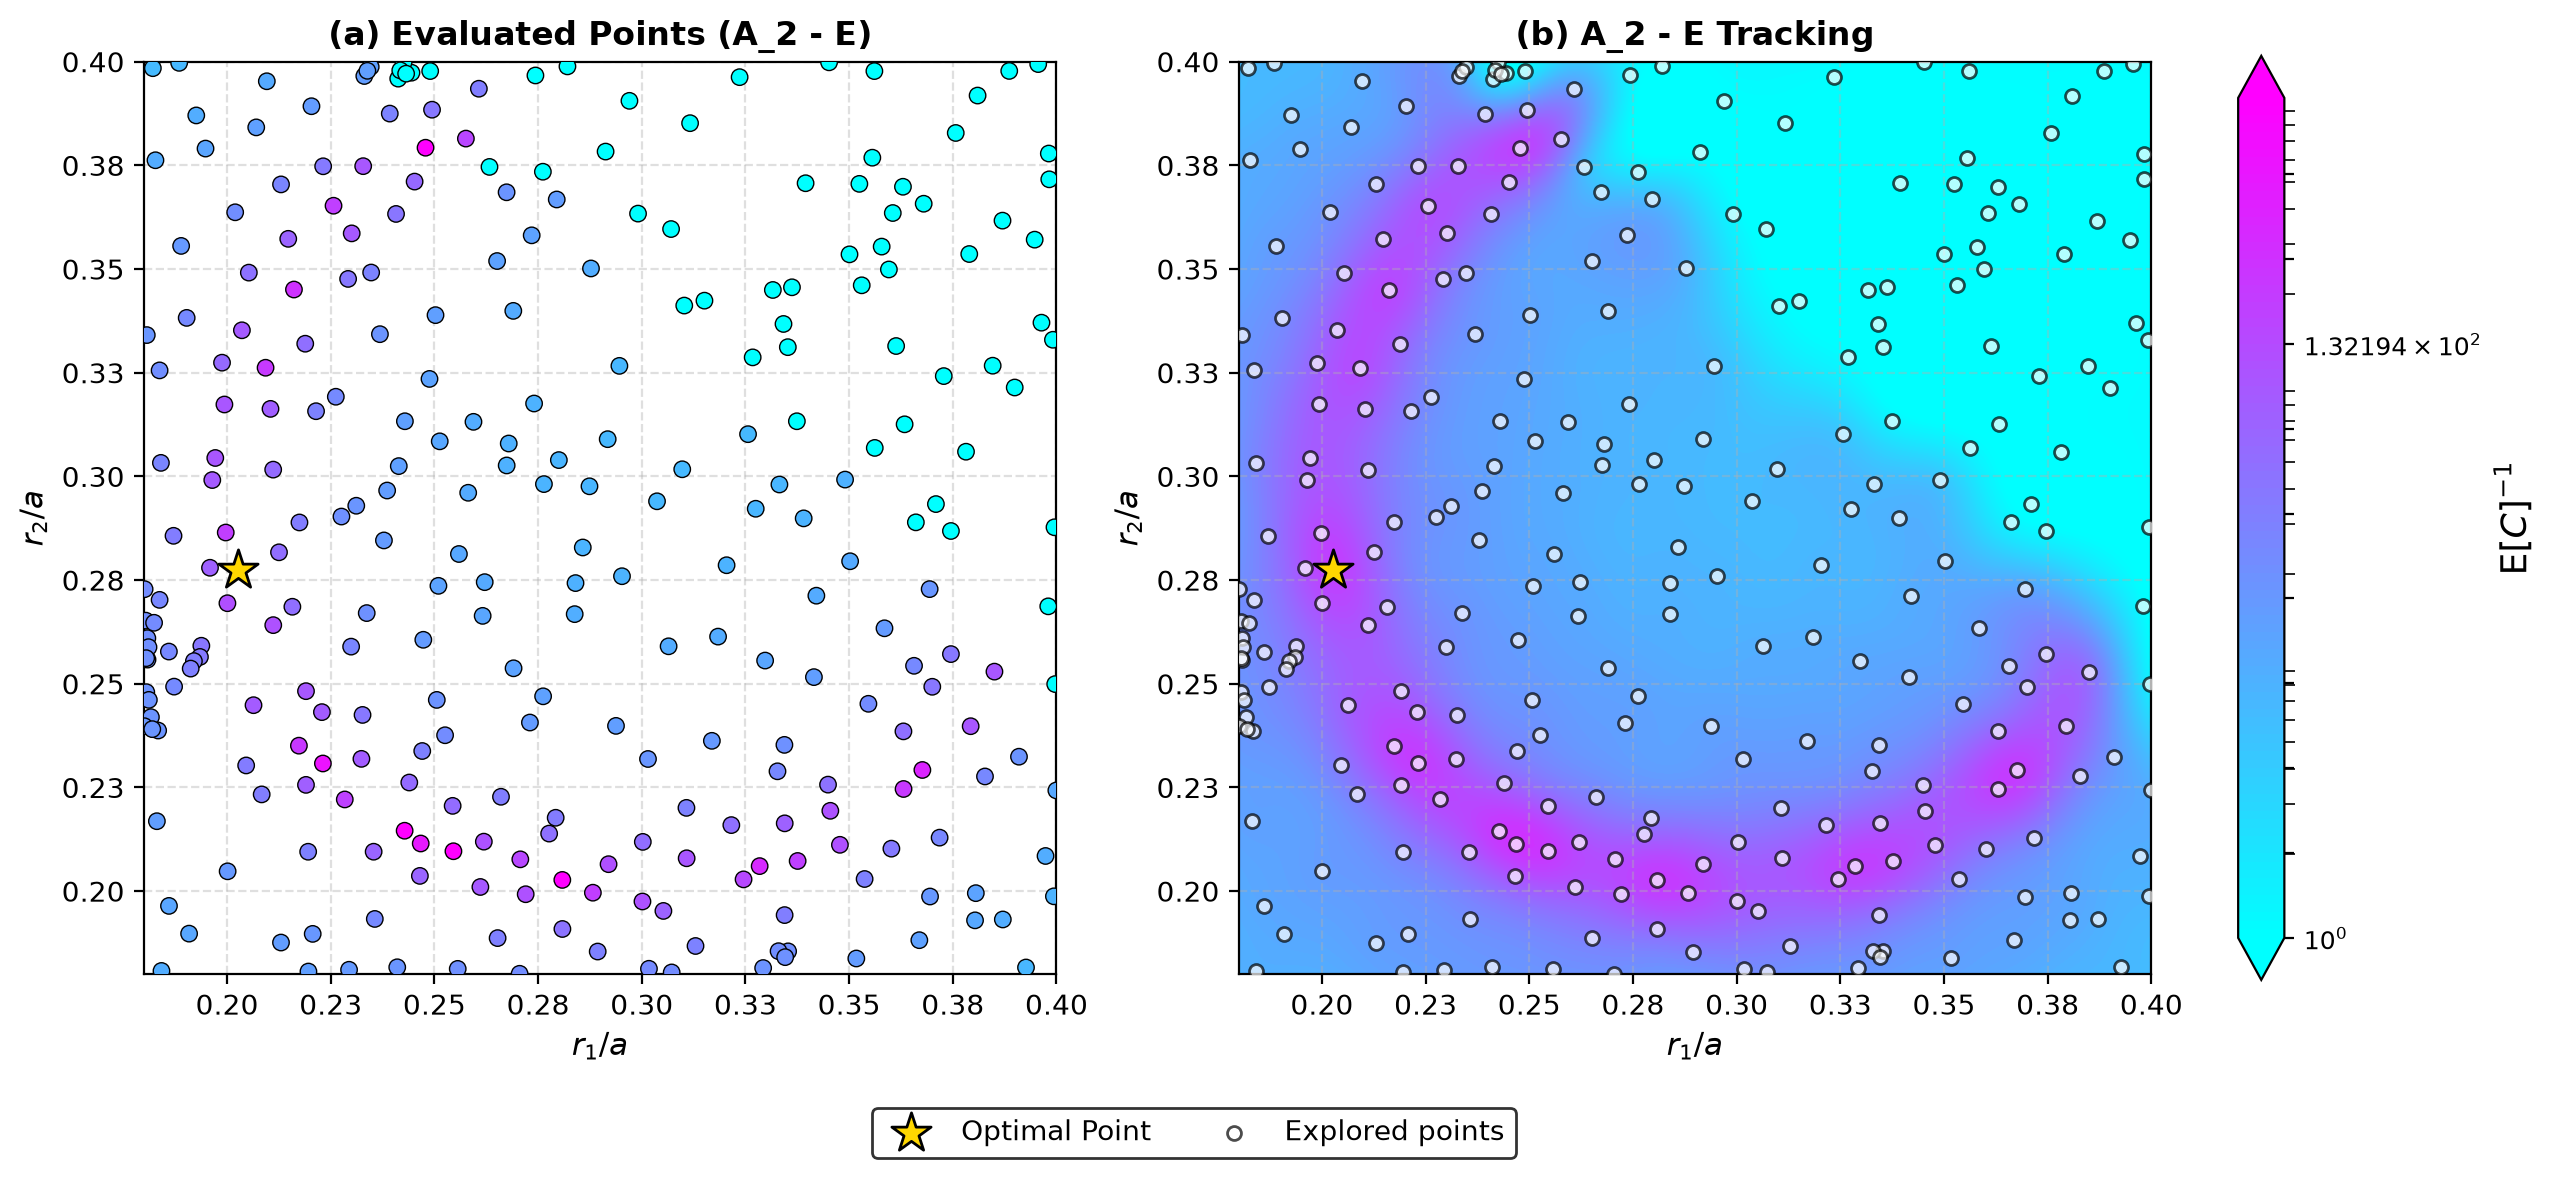
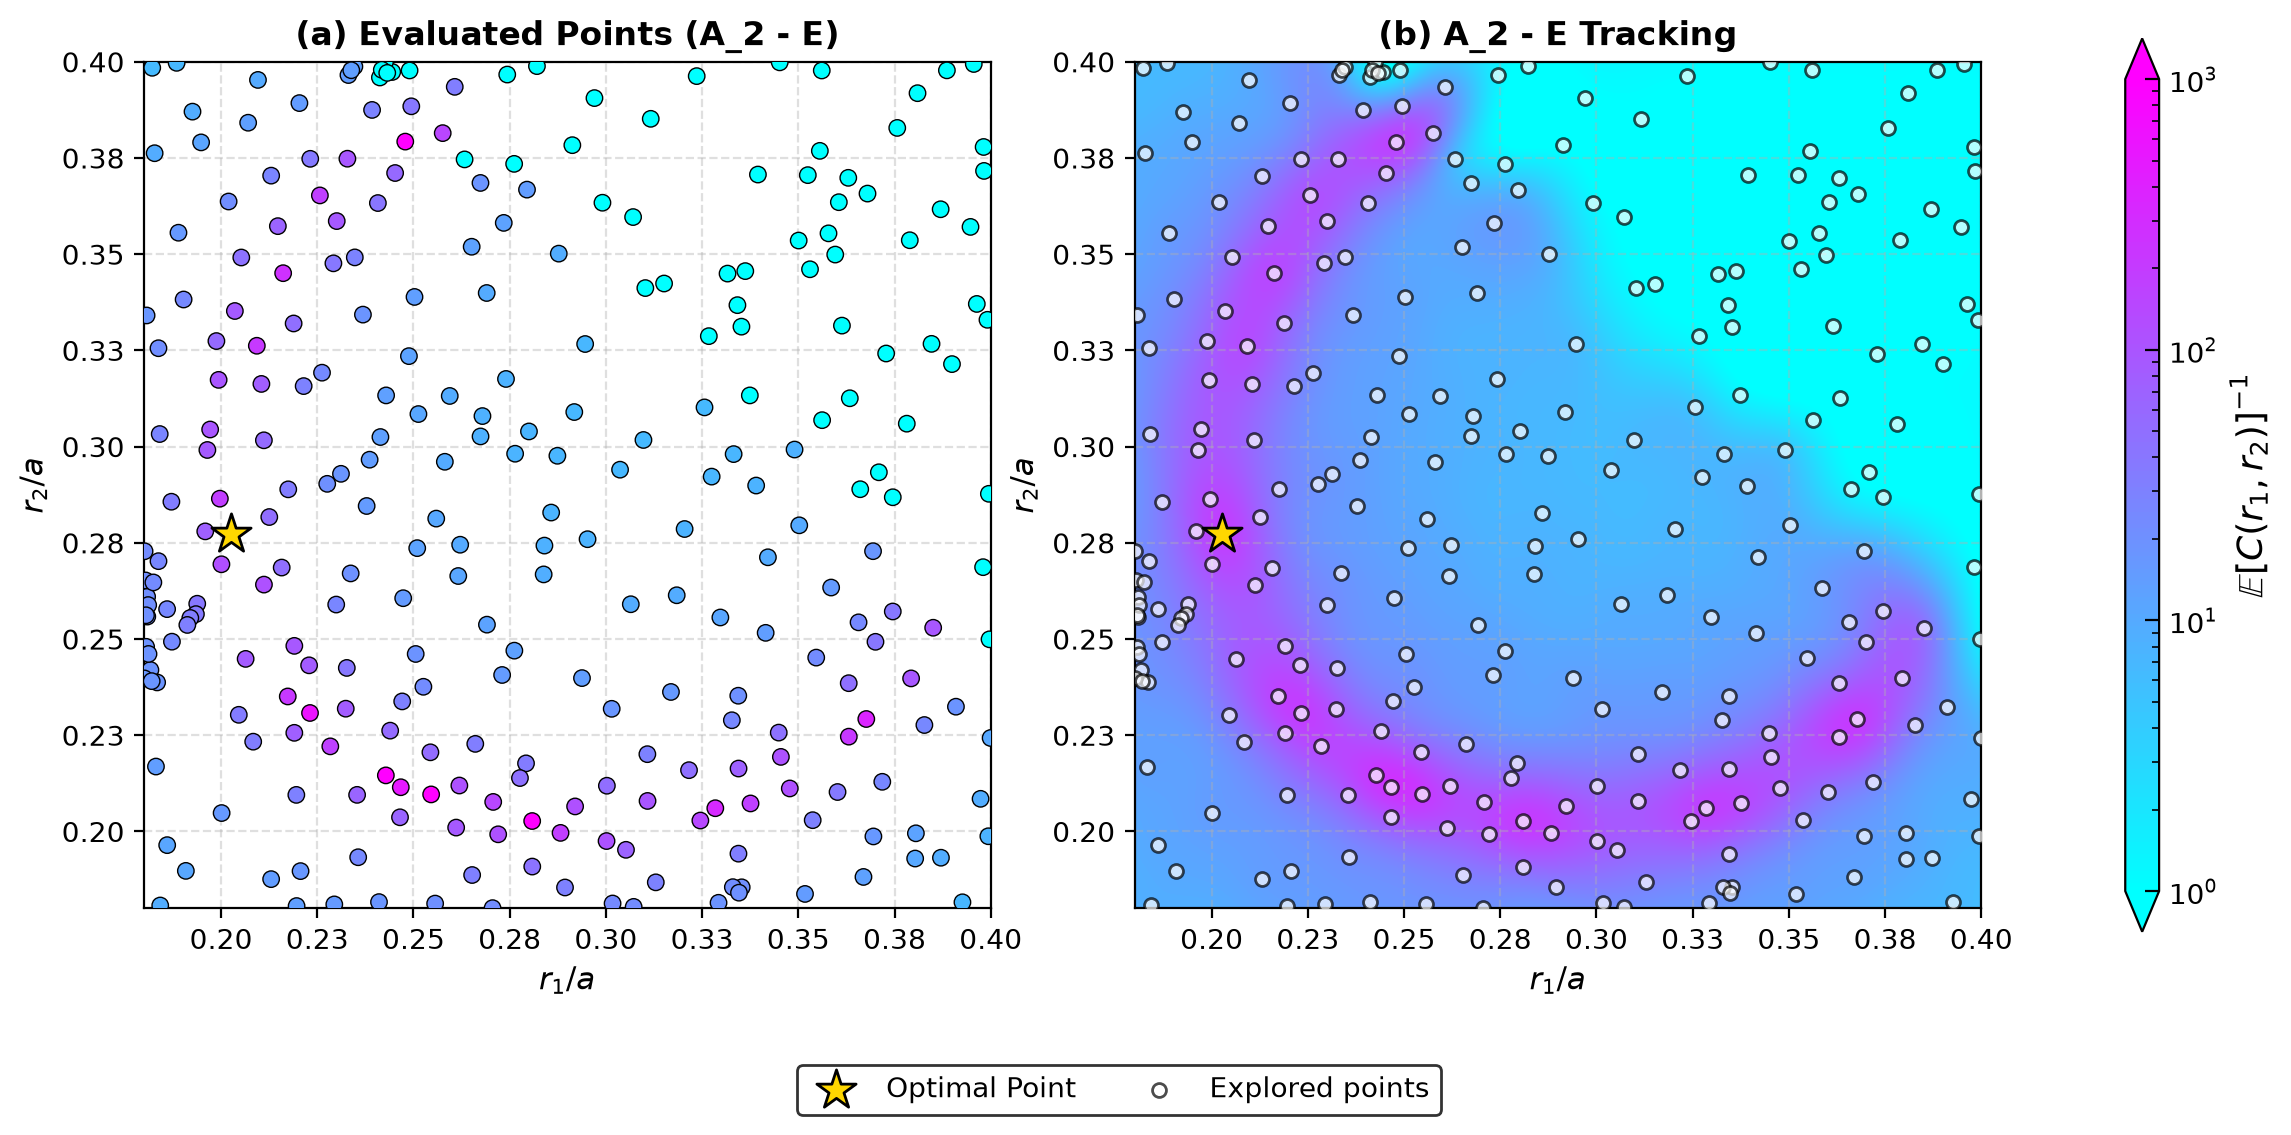
Use GridSpec for identical surrogate subplot sizing and inward colorbar ticks

diff --git a/src/phc_nzi/bo.py b/src/phc_nzi/bo.py
@@ -1079,6 +1079,7 @@ class BayesianOptimizer:
           overlaid with sampled points and optimal point star.
         """
         import matplotlib.colors as mcolors
+        import matplotlib.gridspec as gridspec
         from matplotlib.ticker import FormatStrFormatter, LogFormatterSciNotation, LogLocator
 
         if not hasattr(self.optimizer, "models") or not self.optimizer.models:
@@ -1181,7 +1182,12 @@ class BayesianOptimizer:
             target_irreps = self.target_cfg.get("target_irreps", ["A_2", "E", "E"])
             target_str = " - ".join(dict.fromkeys(target_irreps))
 
-            fig, (ax1, ax2) = plt.subplots(1, 2, figsize=(14, 6.0))
+            fig = plt.figure(figsize=(13.0, 5.8))
+            gs = gridspec.GridSpec(1, 3, width_ratios=[1, 1, 0.04], wspace=0.25)
+
+            ax1 = fig.add_subplot(gs[0, 0])
+            ax2 = fig.add_subplot(gs[0, 1])
+            cax = fig.add_subplot(gs[0, 2])
 
             p1_label = f"${p1_name[0]}_{{{p1_name[1:]}}}/a$" if len(p1_name) > 1 and p1_name[1:].isdigit() else f"${p1_name}/a$"
             p2_label = f"${p2_name[0]}_{{{p2_name[1:]}}}/a$" if len(p2_name) > 1 and p2_name[1:].isdigit() else f"${p2_name}/a$"
@@ -1208,7 +1214,7 @@ class BayesianOptimizer:
             # ---------------------------------------------------------
             # Plot 2 (Right): GP Surrogate Expectation Map E[C]^-1
             # ---------------------------------------------------------
-            levels = np.logspace(np.log10(vmin), np.log10(vmax), 100)
+            levels = np.logspace(np.log10(vmin), np.log10(vmax), 200)
             heatmap = ax2.contourf(
                 X1, X2, predicted_e_c_inv, levels=levels, cmap="cool", norm=log_norm, extend="both"
             )
@@ -1229,18 +1235,20 @@ class BayesianOptimizer:
                 ax.xaxis.set_major_formatter(FormatStrFormatter('%.2f'))
                 ax.yaxis.set_major_formatter(FormatStrFormatter('%.2f'))
 
-            # Shared Colorbar on the right matching pillars_c6v_1.ipynb
-            cbar = fig.colorbar(heatmap, ax=[ax1, ax2], fraction=0.035, pad=0.04, extend="both", format=LogFormatterSciNotation())
-            cbar.set_label(r"$\mathrm{E}[C]^{-1}$", fontsize=13)
-            cbar.ax.tick_params(labelsize=9)
+            # Dedicated colorbar axis with inward ticks matching snippet
+            cbar = fig.colorbar(heatmap, cax=cax, extend="both", format=LogFormatterSciNotation())
+            cbar.set_label(r"$\mathbb{E}[C(r_1, r_2)]^{-1}$" if len(self.param_names) == 2 else r"$\mathbb{E}[C]^{-1}$", fontsize=13)
+            cbar.locator = LogLocator(base=10.0, numticks=6)
+            cbar.update_ticks()
             cbar.ax.yaxis.set_minor_locator(LogLocator(base=10.0, subs=np.arange(2, 10), numticks=12))
             cbar.ax.yaxis.set_minor_formatter(plt.NullFormatter())
-            cbar.ax.tick_params(which="minor", length=4)
+            cbar.ax.tick_params(which="major", direction="in", length=5)
+            cbar.ax.tick_params(which="minor", direction="in", length=2.5)
 
             handles1, labels1 = ax1.get_legend_handles_labels()
             handles2, labels2 = ax2.get_legend_handles_labels()
             by_label = dict(zip(labels1 + labels2, handles1 + handles2))
-            fig.legend(by_label.values(), by_label.keys(), loc="lower center", bbox_to_anchor=(0.5, -0.05), ncol=3, facecolor="white", edgecolor="black")
+            fig.legend(by_label.values(), by_label.keys(), loc="lower center", bbox_to_anchor=(0.5, -0.06), ncol=3, facecolor="white", edgecolor="black")
 
             plt.savefig(surrogate_file, dpi=200, bbox_inches="tight")
             plt.close()
